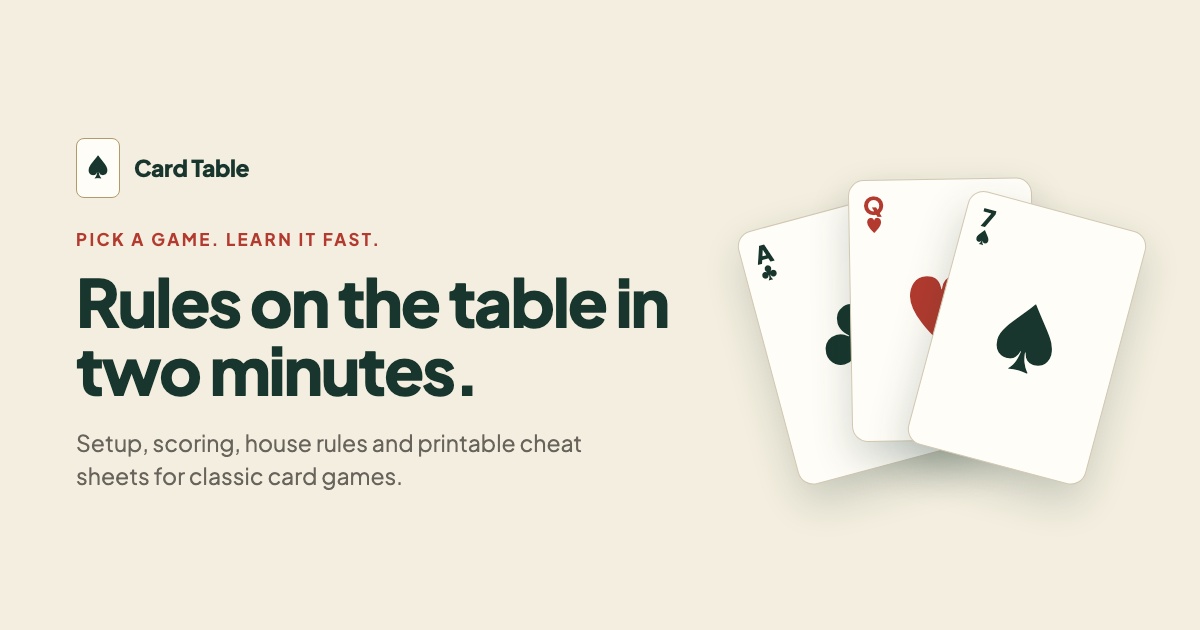
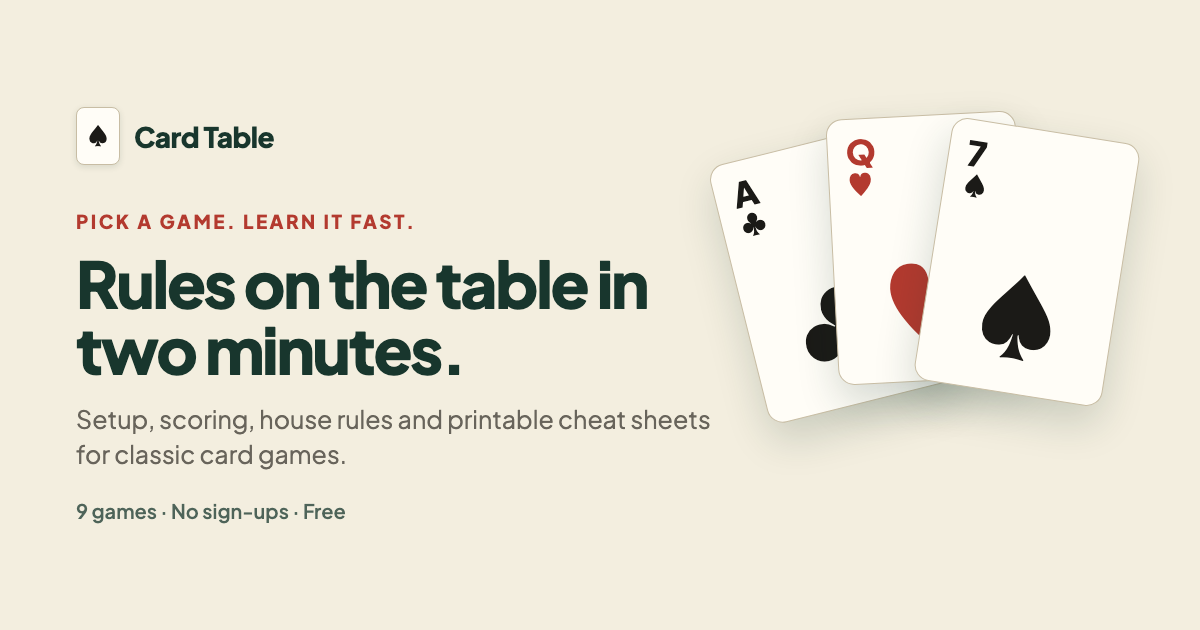
Fix hints splitting on bold text, and give each game its own share card
Reported: on Cheat, hint 1 rendered "four of each rank" stacked one word per
line in the number column. .hints li is display:grid, and a grid container
promotes every child *and every contiguous run of text* to its own grid item.
The template stripped the <p> wrapper, so a hint containing **bold** became
three items — text, <strong>, text — and the <strong> was auto-placed into
the 1.9rem badge column. Keeping the <p> makes each hint a single item.

Four hints across four games hit this (gin-rummy, palace, golf, cheat); the
rest have no inline markup and so happened to render correctly. Verified all
55 hints on all 9 pages are now one full-width item. The cheat-sheet lists
strip <p> the same way but are not grid containers, so they were unaffected.

Separately, all ten pages shared one Open Graph image, so every link posted
to Discord, iMessage or Reddit looked identical regardless of the game. Added
scripts/og-cards.mjs (npm run og) to render a 1200x630 card per game carrying
the game's name, tagline, player count and its own suit. Output is committed
so the build never depends on a local Chrome. The site-wide card keeps its
existing path so anything that already scraped it still resolves.

Changed region(s): [[0.0617, 0.3317, 0.5858, 0.8444], [0.5858, 0.2111, 0.9558, 0.7841], [0.0617, 0.181, 0.2467, 0.3016]]

diff --git a/src/templates/layout.js b/src/templates/layout.js
@@ -16,11 +16,15 @@ if(t==='light'||t==='dark')document.documentElement.dataset.theme=t;}catch(e){}}
 
 export function layout({
   title, description, body, base = '', scripts = [], bodyClass = '', page = '',
-  path = '', jsonLd = null,
+  path = '', jsonLd = null, ogImage: ogImagePath = 'assets/og-card.png', ogImageAlt = '',
 }) {
   const fullTitle = title ? `${title} — ${SITE.name}` : `${SITE.name} — ${SITE.tagline}`;
   const canonical = `${SITE.origin}/${path}`.replace(/\/+$/, '/').replace(/([^:])\/\//g, '$1/');
-  const ogImage = `${SITE.origin}/assets/og-card.png`;
+  // Social crawlers do not resolve relative URLs, so this is always absolute.
+  // Game pages pass their own card: a link dropped in a group chat should say
+  // which game it is, not show the same generic image every time.
+  const ogImage = `${SITE.origin}/${ogImagePath}`;
+  const ogAlt = ogImageAlt || `${SITE.name} — ${SITE.tagline}`;
   return `<!DOCTYPE html>
 <html lang="en">
 <head>
@@ -38,11 +42,12 @@ export function layout({
 <meta property="og:image" content="${esc(ogImage)}">
 <meta property="og:image:width" content="1200">
 <meta property="og:image:height" content="630">
-<meta property="og:image:alt" content="${esc(SITE.name)} — ${esc(SITE.tagline)}">
+<meta property="og:image:alt" content="${esc(ogAlt)}">
 <meta name="twitter:card" content="summary_large_image">
 <meta name="twitter:title" content="${esc(fullTitle)}">
 <meta name="twitter:description" content="${esc(description)}">
 <meta name="twitter:image" content="${esc(ogImage)}">
+<meta name="twitter:image:alt" content="${esc(ogAlt)}">
 <meta name="color-scheme" content="light dark">
 <meta name="theme-color" content="#18362d" media="(prefers-color-scheme: dark)">
 <meta name="theme-color" content="#f3eedf" media="(prefers-color-scheme: light)">

diff --git a/src/templates/game.js b/src/templates/game.js
@@ -60,7 +60,12 @@ function hintsBlock(game) {
   return `
   <section class="section" id="hints">
     <h2>Strategy hints</h2>
-    <ol class="hints">${game.hints.map((h) => `<li>${renderBlocks([{ type: 'p', text: h }]).replace(/^<p>|<\/p>$/g, '')}</li>`).join('')}</ol>
+    <!-- Keep the <p>. .hints li is display:grid, and a grid container turns every
+         child *and every contiguous run of text* into its own grid item. Strip the
+         wrapper and a hint like "There are exactly **four of each rank**." becomes
+         three items — the <strong> lands in the 1.9rem badge column and wraps one
+         word per line. The <p> keeps each hint as a single item. -->
+    <ol class="hints">${game.hints.map((h) => `<li>${renderBlocks([{ type: 'p', text: h }])}</li>`).join('')}</ol>
   </section>`;
 }
 
@@ -242,6 +247,8 @@ export function gamePage(game, { prev, next }) {
     description: `How to play ${game.name}${game.aliases?.length ? ` (also called ${game.aliases.join(', ')})` : ''}: setup, turn order, scoring, house rules and a printable cheat sheet. ${playerLabel(game.players)}, ${timeLabel(game.time)}.`,
     body,
     base: '../',
+    ogImage: `assets/og/${game.slug}.png`,
+    ogImageAlt: `How to play ${game.name} — ${game.tagline}`,
     path: `games/${game.slug}.html`,
     jsonLd,
     bodyClass: 'page-game',
